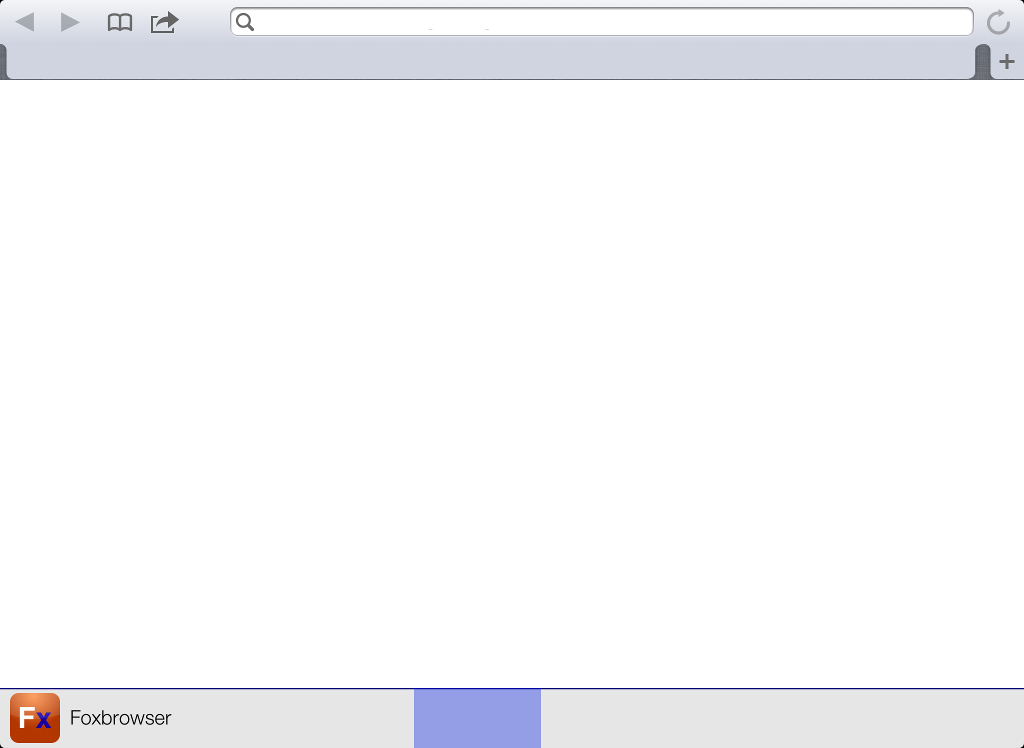
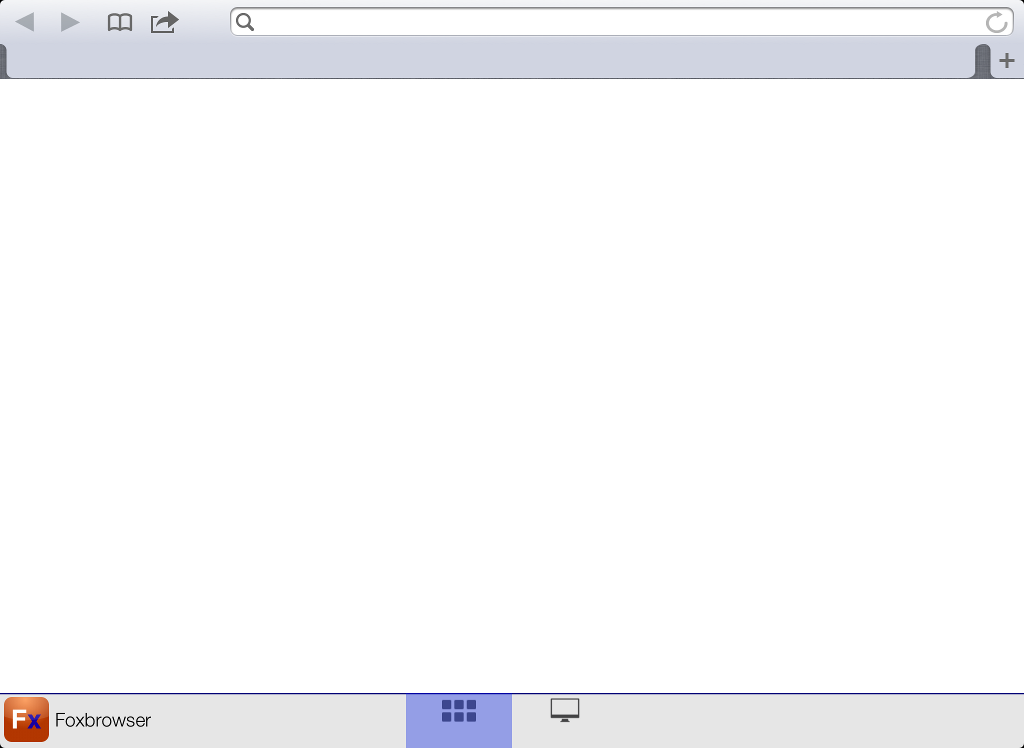
Added launch images

Changed region(s): [[0.0, 0.9225, 1.0, 1.0], [0.9375, 0.0, 1.0, 0.0615]]

diff --git a/Foxbrowser/Common/PreviewLatest/SGPreviewPanel.m b/Foxbrowser/Common/PreviewLatest/SGPreviewPanel.m
@@ -46,10 +46,11 @@
         _label.text = [fm titleWithURL:url];
         [self addSubview:_label];
         
+        UIImage *image = [fm imageWithURL:url];
         _imageView = [[UIImageView alloc] initWithFrame:CGRectMake(0, 0, size.width, size.height)];
         _imageView.contentMode = UIViewContentModeScaleAspectFit;
-        _imageView.backgroundColor = [UIColor colorWithWhite:0.8 alpha:1.];
-        _imageView.image = [fm imageWithURL:url];
+        _imageView.backgroundColor = image ? [UIColor whiteColor]:[UIColor colorWithWhite:0.8 alpha:1.];
+        _imageView.image = image;
         _imageView.layer.borderColor = [UIColor grayColor].CGColor;
         _imageView.layer.borderWidth = 1.f;
         [self addSubview:_imageView];

diff --git a/Foxbrowser/iPhone/SGPageToolbar.m b/Foxbrowser/iPhone/SGPageToolbar.m
@@ -88,7 +88,7 @@
         [_tabsButton addTarget:self action:@selector(pressedTabsButton:) forControlEvents:UIControlEventTouchUpInside];
         [self addSubview:_tabsButton];
         
-        btnRect = CGRectMake(0, (frame.size.height - 30)/2, 77, 30);
+        btnRect = CGRectMake(0, (frame.size.height - 36)/2, 77, 36);
         btnRect.origin.x = frame.size.width - 80;
         _cancelButton = [UIButton buttonWithType:UIButtonTypeCustom];
         _cancelButton.frame = btnRect;

diff --git a/README.md b/README.md
@@ -1,6 +1,6 @@
 # Foxbrowser
 
-The purpose of the project is to provide a full Firefox Sync powered replacement for Mobile Safari on the iPad. 
+The purpose of the project is to provide a full Firefox Sync powered replacement for Mobile Safari on iOs devices. 
 The backend code is forked from Firefox Home for iOS, on top of that I created an entirely new UI.
 
 - Safari style UI (Might change in future releases)
